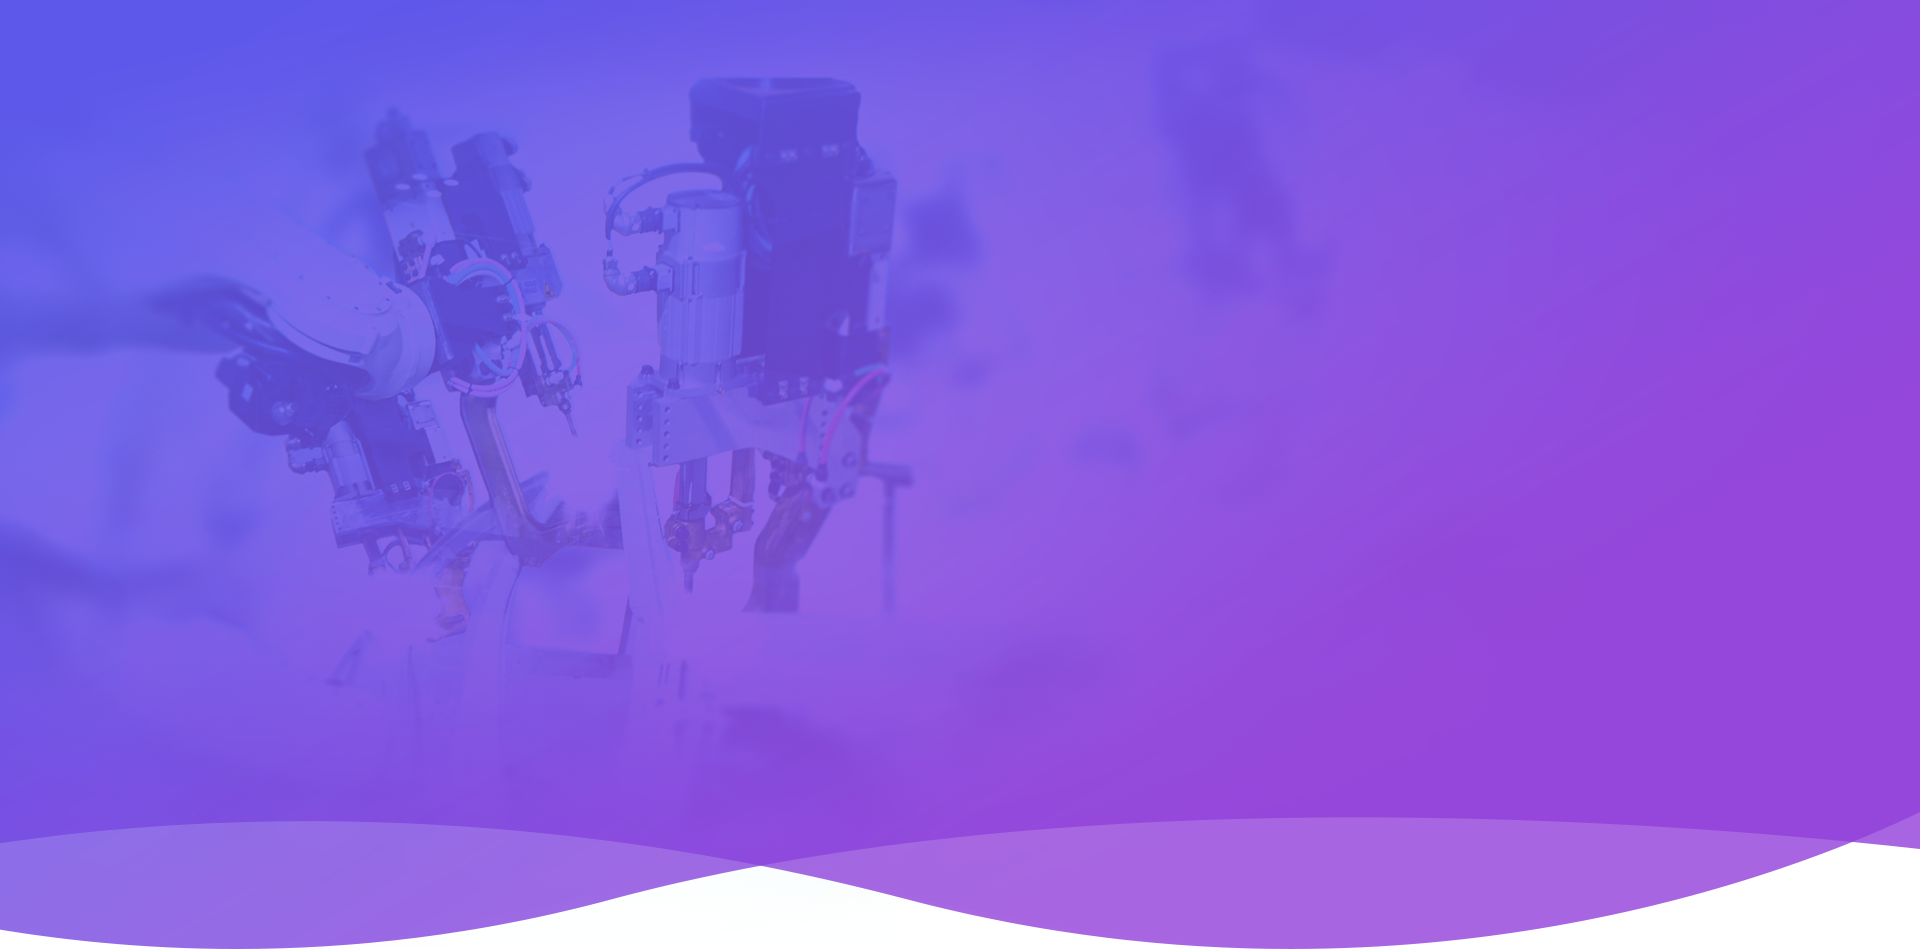
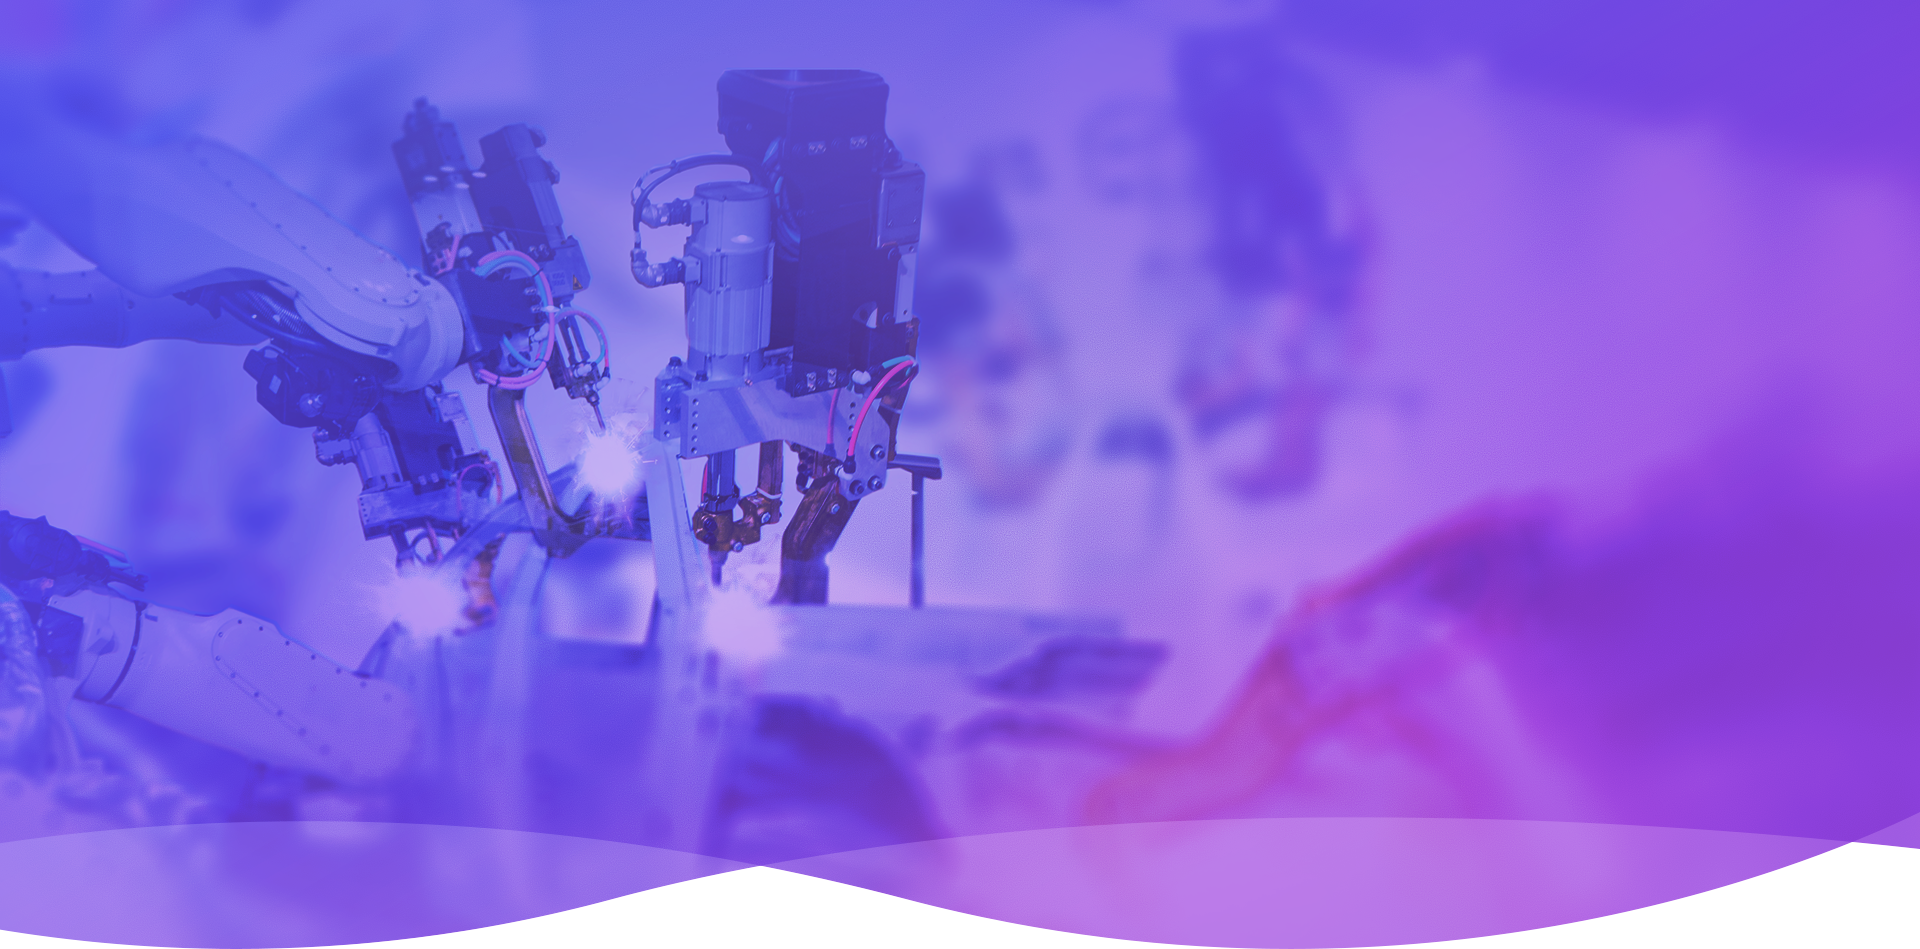
change graphics for kubernetes and devides sections

diff --git a/index.html b/index.html
@@ -162,7 +162,7 @@
               href="#platforms"
             >
               <div class="single-icon">
-                <i class="ti-ruler-pencil" aria-hidden="true"></i>
+                <i class="ti-layers-alt" aria-hidden="true"></i>
               </div>
               <h4>IoT Platforms</h4>
               <p>
@@ -179,7 +179,7 @@
               href="#devices"
             >
               <div class="single-icon">
-                <i class="ti-settings" aria-hidden="true"></i>
+                <i class="ti-rss-alt" aria-hidden="true"></i>
               </div>
               <h4>Device Connectivity</h4>
               <p>
@@ -197,7 +197,7 @@
               href="#devops"
             >
               <div class="single-icon">
-                <i class="ti-settings" aria-hidden="true"></i>
+                <i class="ti-rocket" aria-hidden="true"></i>
               </div>
               <h4>Developer Culture</h4>
               <p>
@@ -211,9 +211,26 @@
       </div>
     </section>
 
+    <section class="process_area section_padding_100 clearfix" id="software">
+      <div class="container">
+        <div class="row">
+          <div class="col-12 text-center">
+            <!-- Heading Text  -->
+            <div class="section-heading">
+              <h2>Shopfloor Software</h2>
+              <div class="line-shape"></div>
+            </div>
+          </div>
+        </div>
+        <div class="row">
+          <div class="col-12 col-md-6 col-lg-6"></div>
+        </div>
+      </div>
+    </section>
+
     <!-- ***** Shopfloor Software Area Start ***** -->
     <section
-      class="our-Team-area bg-white section_padding_0_100 clearfix"
+      class="our-Team-area bg-white section_padding_100 clearfix"
       id="software"
     >
       <div class="container">
@@ -318,7 +335,7 @@
         <div class="row">
           <div class="col-lg-6">
             <div class="special_description_img">
-              <img src="img/bg-img/special.png" alt="" />
+              <img src="img/software-img/kubernetes.png" alt="" />
             </div>
           </div>
           <div class="col-lg-6 col-xl-5 ml-xl-auto">
@@ -373,7 +390,7 @@
           </div>
           <div class="col-lg-6 ml-xl-auto">
             <div class="special_description_img">
-              <img src="img/bg-img/special.png" alt="" />
+              <img src="img/software-img/devices.png" alt="" />
             </div>
           </div>
         </div>

diff --git a/style.css b/style.css
@@ -444,6 +444,27 @@ p {
   background-size: cover;
 }
 
+.process_area {
+  height: 900px;
+
+  background: #6052ec; /* Old browsers */
+  background: -moz-linear-gradient(
+    left,
+    #6052ec 0%,
+    #3d32e7 100%
+  ); /* FF3.6-15 */
+  background: -webkit-linear-gradient(
+    left,
+    #6052ec 0%,
+    #3d32e7 100%
+  ); /* Chrome10-25,Safari5.1-6 */
+  background: linear-gradient(
+    to right,
+    #6052ec 0%,
+    #3d32e7 100%
+  ); /* W3C, IE10+, FF16+, Chrome26+, Opera12+, Safari7+ */
+}
+
 .wellcome_area:after {
   position: absolute;
   width: 100%;
@@ -1117,7 +1138,6 @@ p {
   border-radius: 30px 30px 30px 0;
   position: relative;
   z-index: 1;
-  border: 1px solid #eff2f6;
   overflow: hidden;
 }
 
